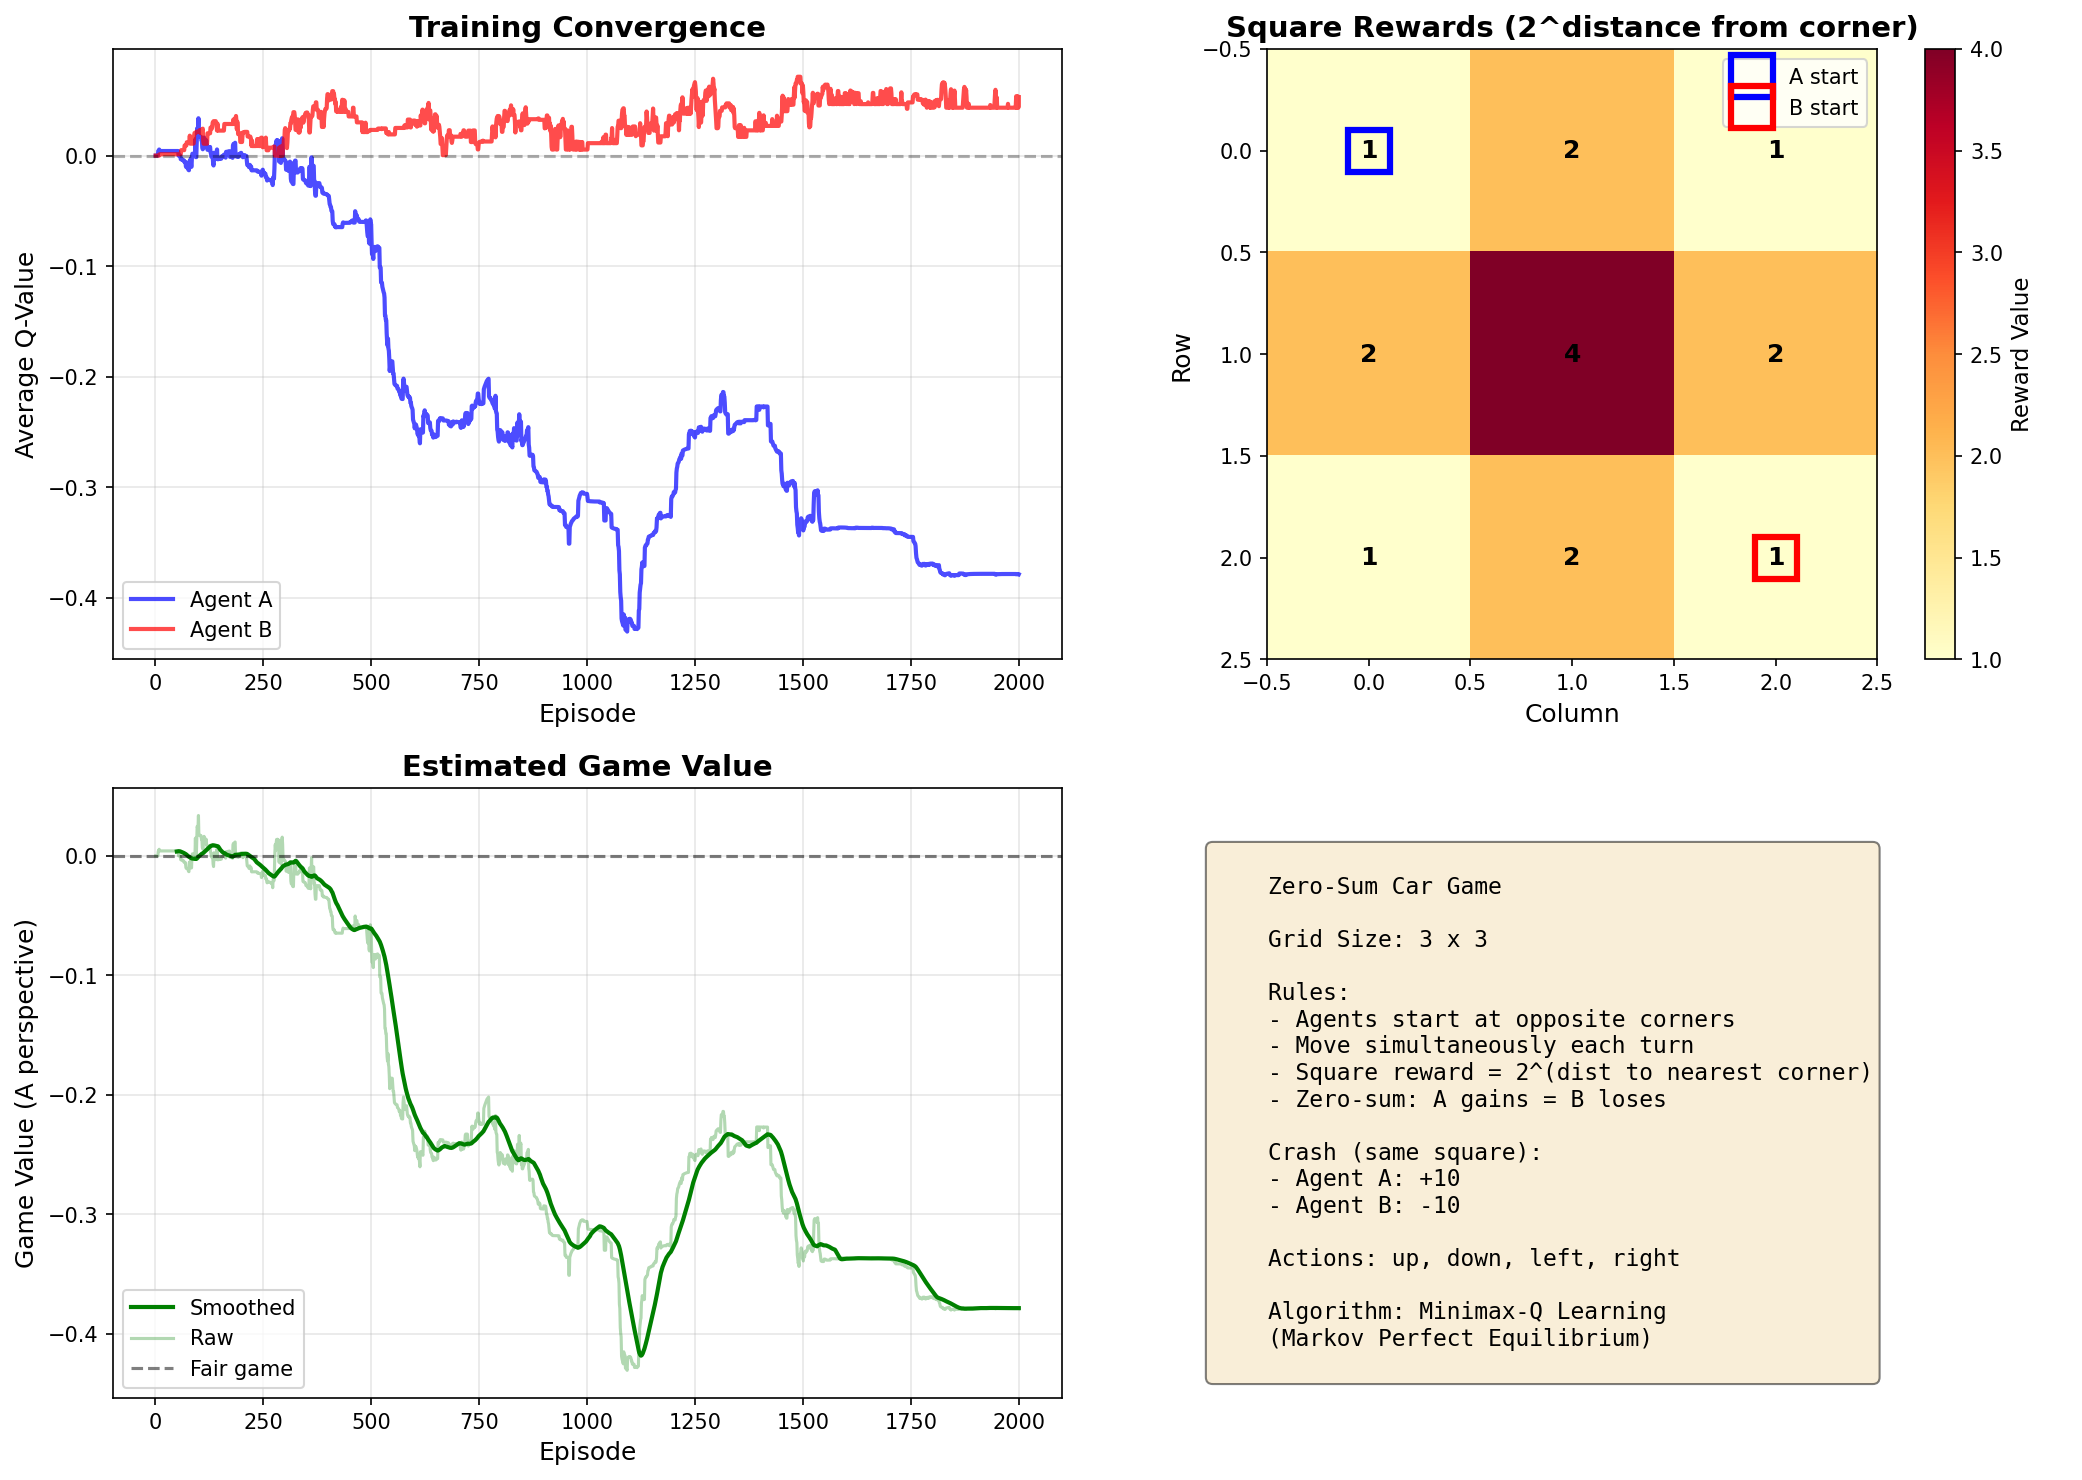
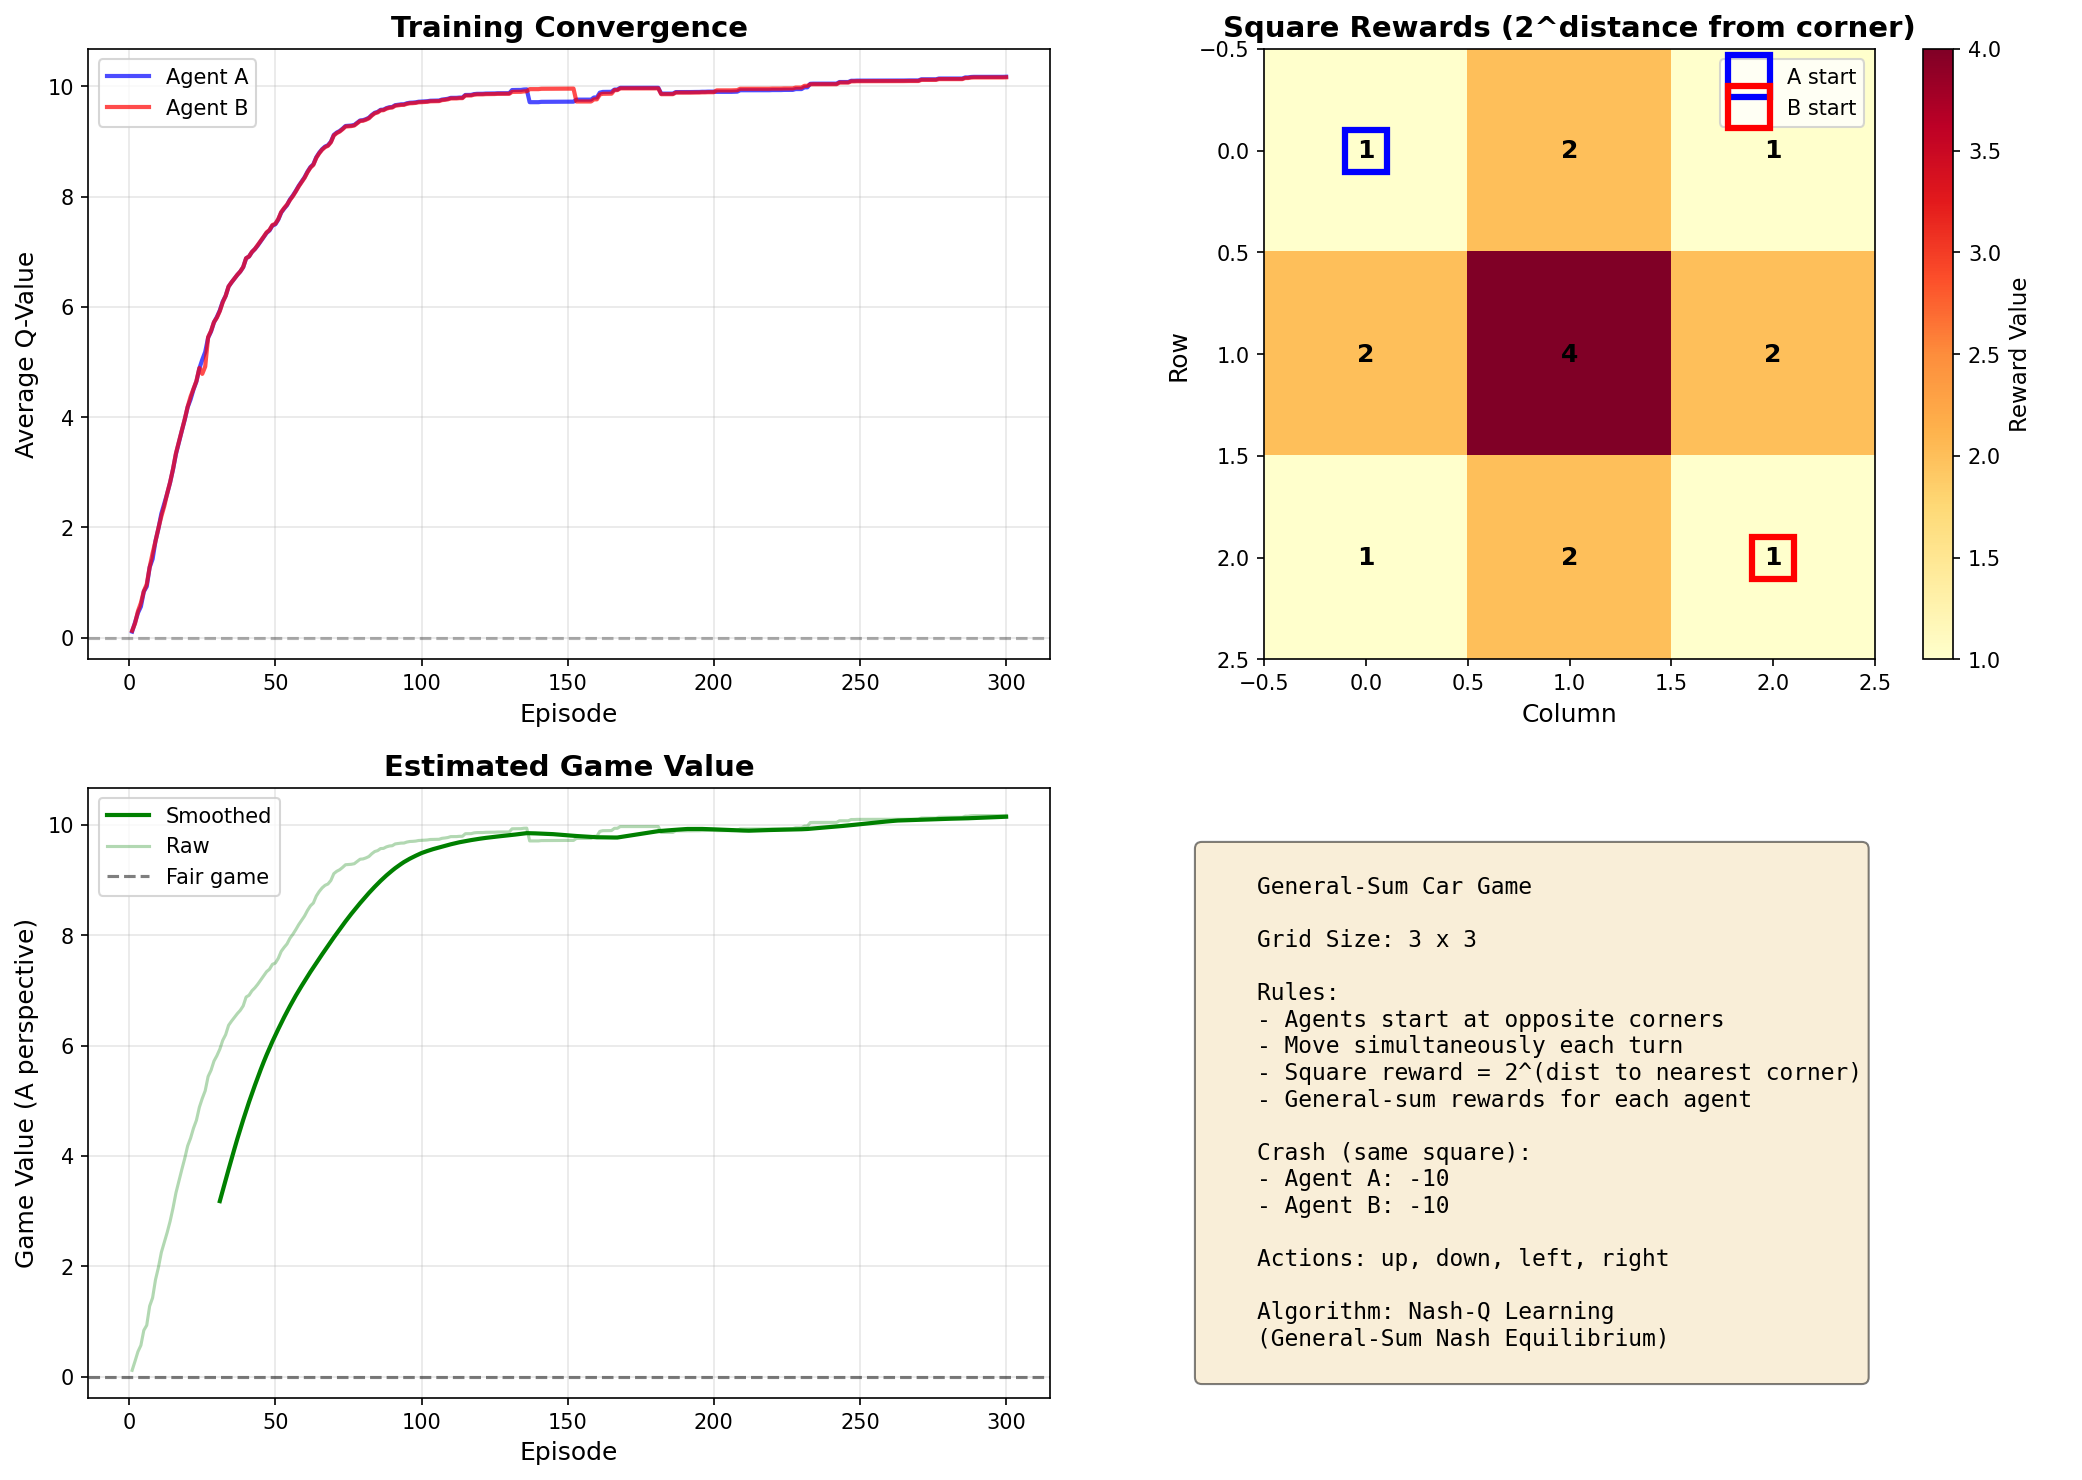
ok

diff --git a/CarGame/agent.py b/CarGame/agent.py
@@ -1,11 +1,12 @@
 import random
+import warnings
 import numpy as np
-from scipy.optimize import linprog
+import nashpy as nash
 
-from config import DISCOUNT_FACTOR, LEARNING_RATE, EPSILON
+from config import DISCOUNT_FACTOR, LEARNING_RATE, EPSILON, Q_INIT_SCALE
 
 
-class MinimaxQAgent:
+class NashQAgent:
     def __init__(self, environment, player='A', learning_rate=LEARNING_RATE,
                  discount_factor=DISCOUNT_FACTOR, epsilon=EPSILON):
         self.env = environment
@@ -22,7 +23,10 @@ class MinimaxQAgent:
 
     def _initialize(self):
         for state in self.env.get_all_states():
-            self.q_values[state] = np.zeros((self.num_actions, self.num_actions))
+            self.q_values[state] = np.random.uniform(
+                low=-Q_INIT_SCALE, high=Q_INIT_SCALE,
+                size=(self.num_actions, self.num_actions)
+            )
             self.state_values[state] = 0.0
             self.policy[state] = self._uniform_policy_for_state(state)
 
@@ -45,62 +49,76 @@ class MinimaxQAgent:
 
     def get_q_matrix(self, state):
         if state not in self.q_values:
-            self.q_values[state] = np.zeros((self.num_actions, self.num_actions))
+            self.q_values[state] = np.random.uniform(
+                low=-Q_INIT_SCALE, high=Q_INIT_SCALE,
+                size=(self.num_actions, self.num_actions)
+            )
         return self.q_values[state]
 
-    def compute_minimax_value_and_policy(self, state):
-        Q = self.get_q_matrix(state)
+    def _get_opponent_q(self, opponent_q_values, state):
+        if state in opponent_q_values:
+            return opponent_q_values[state]
+        return np.zeros((self.num_actions, self.num_actions))
+
+    def compute_nash_value_and_policy(self, state, opponent_q_values):
         idx_a, idx_b = self._action_indices_for_state(state)
-        if self.player == 'A':
-            n = len(idx_a)
-            m = len(idx_b)
-            Q_sub = Q[np.ix_(idx_a, idx_b)]
-            c = np.zeros(n + 1)
-            c[-1] = -1
-            A_ub = np.zeros((m, n + 1))
-            for j in range(m):
-                A_ub[j, :n] = -Q_sub[:, j]
-                A_ub[j, -1] = 1
-            b_ub = np.zeros(m)
-            A_eq = np.zeros((1, n + 1))
-            A_eq[0, :n] = 1
-            b_eq = np.array([1.0])
-            bounds = [(0, 1) for _ in range(n)] + [(None, None)]
-        else:
-            n = len(idx_b)
-            m = len(idx_a)
-            Q_sub = Q[np.ix_(idx_a, idx_b)]
-            c = np.zeros(n + 1)
-            c[-1] = 1
-            A_ub = np.zeros((m, n + 1))
-            for i in range(m):
-                A_ub[i, :n] = Q_sub[i, :]
-                A_ub[i, -1] = -1
-            b_ub = np.zeros(m)
-            A_eq = np.zeros((1, n + 1))
-            A_eq[0, :n] = 1
-            b_eq = np.array([1.0])
-            bounds = [(0, 1) for _ in range(n)] + [(None, None)]
+        Q_a = self.get_q_matrix(state)
+        Q_b = self._get_opponent_q(opponent_q_values, state)
+        Q_a_sub = Q_a[np.ix_(idx_a, idx_b)]
+        Q_b_sub = Q_b[np.ix_(idx_a, idx_b)]
+
+        if Q_a_sub.size == 0 or Q_b_sub.size == 0:
+            return 0.0, self._uniform_policy_for_state(state)
 
         try:
-            result = linprog(c, A_ub=A_ub, b_ub=b_ub, A_eq=A_eq, b_eq=b_eq,
-                           bounds=bounds, method='highs')
-            if result.success:
-                policy = result.x[:n]
-                policy = np.maximum(policy, 0)
-                policy = policy / policy.sum()
-                value = result.x[-1]
-                policy_full = np.zeros(self.num_actions)
-                if self.player == 'A':
-                    for i, idx in enumerate(idx_a):
-                        policy_full[idx] = policy[i]
-                else:
-                    for i, idx in enumerate(idx_b):
-                        policy_full[idx] = policy[i]
-                return value, policy_full
+            game = nash.Game(Q_a_sub, Q_b_sub)
+            with warnings.catch_warnings():
+                warnings.simplefilter("ignore", RuntimeWarning)
+                equilibria = list(game.support_enumeration())
         except:
-            pass
-        return 0.0, self._uniform_policy_for_state(state)
+            equilibria = []
+
+        if not equilibria:
+            return 0.0, self._uniform_policy_for_state(state)
+
+        pi_a, pi_b = equilibria[0]
+        pi_a = np.array(pi_a, dtype=float)
+        pi_b = np.array(pi_b, dtype=float)
+        if pi_a.sum() <= 0 or pi_b.sum() <= 0:
+            return 0.0, self._uniform_policy_for_state(state)
+
+        pi_a = pi_a / pi_a.sum()
+        pi_b = pi_b / pi_b.sum()
+        value_a = float(pi_a @ Q_a_sub @ pi_b)
+        value_b = float(pi_a @ Q_b_sub @ pi_b)
+
+        policy_a_full = np.zeros(self.num_actions)
+        policy_b_full = np.zeros(self.num_actions)
+        for i, idx in enumerate(idx_a):
+            policy_a_full[idx] = pi_a[i]
+        for i, idx in enumerate(idx_b):
+            policy_b_full[idx] = pi_b[i]
+
+        if self.player == 'A':
+            return value_a, policy_a_full
+        return value_b, policy_b_full
+
+    def count_equilibria(self, state, opponent_q_values):
+        idx_a, idx_b = self._action_indices_for_state(state)
+        Q_a = self.get_q_matrix(state)
+        Q_b = self._get_opponent_q(opponent_q_values, state)
+        Q_a_sub = Q_a[np.ix_(idx_a, idx_b)]
+        Q_b_sub = Q_b[np.ix_(idx_a, idx_b)]
+        if Q_a_sub.size == 0 or Q_b_sub.size == 0:
+            return 0
+        try:
+            game = nash.Game(Q_a_sub, Q_b_sub)
+            with warnings.catch_warnings():
+                warnings.simplefilter("ignore", RuntimeWarning)
+                equilibria = list(game.support_enumeration())
+            return len(equilibria)
+        except:
+            return 0
 
     def choose_action(self, state):
         pos = state[0] if self.player == 'A' else state[1]
@@ -120,25 +138,31 @@ class MinimaxQAgent:
         return available[action_idx]
 
     def _initialize_state(self, state):
-        self.q_values[state] = np.zeros((self.num_actions, self.num_actions))
+        self.q_values[state] = np.random.uniform(
+            low=-Q_INIT_SCALE, high=Q_INIT_SCALE,
+            size=(self.num_actions, self.num_actions)
+        )
         self.state_values[state] = 0.0
         self.policy[state] = self._uniform_policy_for_state(state)
 
-    def update(self, state, action_a, action_b, reward, next_state, done):
+    def update(self, state, action_a, action_b, reward_a, reward_b, next_state, done, opponent_q_values):
         if state not in self.q_values:
             self._initialize_state(state)
+
         idx_a = self.actions.index(action_a)
         idx_b = self.actions.index(action_b)
+        reward = reward_a if self.player == 'A' else reward_b
+
         if done:
             next_value = 0
         else:
-            if next_state not in self.state_values:
-                self._initialize_state(next_state)
-            next_value = self.state_values[next_state]
+            next_value, _ = self.compute_nash_value_and_policy(next_state, opponent_q_values)
+
         current_q = self.q_values[state][idx_a, idx_b]
         target = reward + self.discount_factor * next_value
         self.q_values[state][idx_a, idx_b] += self.learning_rate * (target - current_q)
-        value, policy = self.compute_minimax_value_and_policy(state)
+
+        value, policy = self.compute_nash_value_and_policy(state, opponent_q_values)
         self.state_values[state] = value
         self.policy[state] = policy
 

diff --git a/CarGame/main.py b/CarGame/main.py
@@ -1,16 +1,16 @@
 #!/usr/bin/env python3
 
 from environment import CarGameEnvironment
-from agent import MinimaxQAgent, IndependentQLearningAgent
-from visualization import plot_training_results, compute_average_value, plot_policy, save_all_state_policies
-from config import EPISODES, MAX_STEPS_PER_EPISODE
+from agent import NashQAgent, IndependentQLearningAgent
+from visualization import plot_training_results, compute_average_value, save_all_state_policies
+from config import EPISODES, MAX_STEPS_PER_EPISODE, EPSILON, EPSILON_MIN, EPSILON_DECAY
 
 
-def train(episodes=EPISODES, use_minimax=True, visualize=True):
+def train(episodes=EPISODES, use_nash=True, visualize=True):
     env = CarGameEnvironment()
-    if use_minimax:
-        agent_a = MinimaxQAgent(env, player='A')
-        agent_b = MinimaxQAgent(env, player='B')
+    if use_nash:
+        agent_a = NashQAgent(env, player='A')
+        agent_b = NashQAgent(env, player='B')
     else:
         agent_a = IndependentQLearningAgent(env, player='A')
         agent_b = IndependentQLearningAgent(env, player='B')
@@ -19,6 +19,9 @@ def train(episodes=EPISODES, use_minimax=True, visualize=True):
     convergence_b = []
 
     for episode in range(1, episodes + 1):
+        current_epsilon = max(EPSILON_MIN, EPSILON * (EPSILON_DECAY ** (episode - 1)))
+        agent_a.epsilon = current_epsilon
+        agent_b.epsilon = current_epsilon
         state = env.reset()
         done = False
         steps = 0
@@ -28,9 +31,9 @@ def train(episodes=EPISODES, use_minimax=True, visualize=True):
             action_b = agent_b.choose_action(state)
             joint_action = (action_a, action_b)
             next_state, (reward_a, reward_b), done = env.step(state, joint_action)
-            if use_minimax:
-                agent_a.update(state, action_a, action_b, reward_a, next_state, done)
-                agent_b.update(state, action_a, action_b, reward_b, next_state, done)
+            if use_nash:
+                agent_a.update(state, action_a, action_b, reward_a, reward_b, next_state, done, agent_b.q_values)
+                agent_b.update(state, action_a, action_b, reward_a, reward_b, next_state, done, agent_a.q_values)
             else:
                 agent_a.update(state, action_a, reward_a, next_state, done)
                 agent_b.update(state, action_b, reward_b, next_state, done)
@@ -47,6 +50,15 @@ def train(episodes=EPISODES, use_minimax=True, visualize=True):
 
     if visualize:
         plot_training_results(convergence_a, convergence_b, env)
+
+    if use_nash:
+        total_states = 0
+        states_with_nash = 0
+        for state in env.get_all_states():
+            total_states += 1
+            if agent_a.count_equilibria(state, agent_b.q_values) > 0:
+                states_with_nash += 1
+        print(f"{states_with_nash}/{total_states}")
 
     return agent_a, agent_b, convergence_a, convergence_b
 
@@ -77,7 +89,7 @@ def play_game(agent_a, agent_b, env=None):
 
 
 def main():
-    agent_a, agent_b, _, _ = train(use_minimax=True)
+    agent_a, agent_b, _, _ = train(use_nash=True)
     env = CarGameEnvironment()
     save_all_state_policies(agent_a, agent_b, env)
     play_game(agent_a, agent_b, env)

diff --git a/CarGame/environment.py b/CarGame/environment.py
@@ -1,5 +1,3 @@
-import random
-
 from config import GRID_SIZE, ACTIONS, AGENT_A_START, CRASH_REWARD
 
 
@@ -73,18 +71,14 @@ class CarGameEnvironment:
         next_pos_b = self.get_next_position(pos_b, action_b)
         next_state = (next_pos_a, next_pos_b)
         if next_pos_a == next_pos_b:
-            if random.random() < 0.5:
-                reward_a = CRASH_REWARD
-                reward_b = -CRASH_REWARD
-            else:
-                reward_a = -CRASH_REWARD
-                reward_b = CRASH_REWARD
-            done = True
+            reward_a = -CRASH_REWARD
+            reward_b = -CRASH_REWARD
+            done = False
         else:
             reward_a_square = self.get_square_reward(next_pos_a)
             reward_b_square = self.get_square_reward(next_pos_b)
-            reward_a = reward_a_square - reward_b_square
-            reward_b = -reward_a
+            reward_a = reward_a_square
+            reward_b = reward_b_square
             done = False
         return next_state, (reward_a, reward_b), done
 

diff --git a/CarGame/visualization.py b/CarGame/visualization.py
@@ -68,7 +68,7 @@ def _plot_game_value(ax, values_a):
 def _plot_game_info(ax, env):
     ax.axis('off')
     info_text = f"""
-    Zero-Sum Car Game
+    General-Sum Car Game
 
     Grid Size: {env.grid_size} x {env.grid_size}
 
@@ -76,16 +76,16 @@ def _plot_game_info(ax, env):
     - Agents start at opposite corners
     - Move simultaneously each turn
     - Square reward = 2^(dist to nearest corner)
-    - Zero-sum: A gains = B loses
+    - General-sum rewards for each agent
 
     Crash (same square):
-    - Agent A: +{CRASH_REWARD}
+    - Agent A: -{CRASH_REWARD}
     - Agent B: -{CRASH_REWARD}
 
     Actions: {', '.join(env.actions)}
 
-    Algorithm: Minimax-Q Learning
-    (Markov Perfect Equilibrium)
+    Algorithm: Nash-Q Learning
+    (General-Sum Nash Equilibrium)
     """
     ax.text(0.1, 0.9, info_text, transform=ax.transAxes, fontsize=11,
            verticalalignment='top', fontfamily='monospace',

diff --git a/CarGame/config.py b/CarGame/config.py
@@ -4,6 +4,9 @@ AGENT_A_START = (0, 0)
 CRASH_REWARD = 10
 DISCOUNT_FACTOR = 0.9
 LEARNING_RATE = 0.1
-EPSILON = 0.05
-EPISODES = 2000
+EPSILON = 0.3
+EPSILON_MIN = 0.05
+EPSILON_DECAY = 0.99
+Q_INIT_SCALE = 0.01
+EPISODES = 200
 MAX_STEPS_PER_EPISODE = 100
